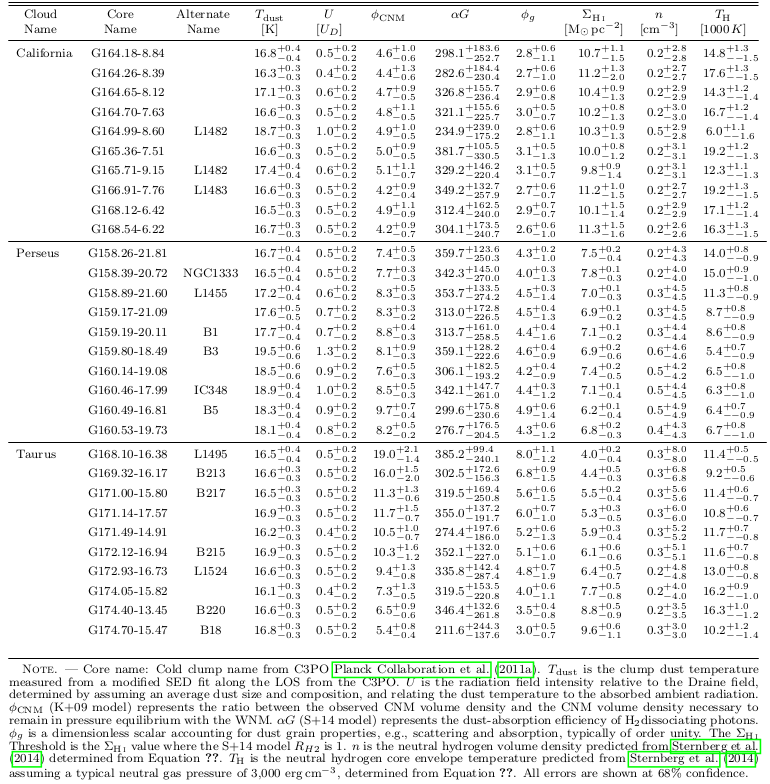
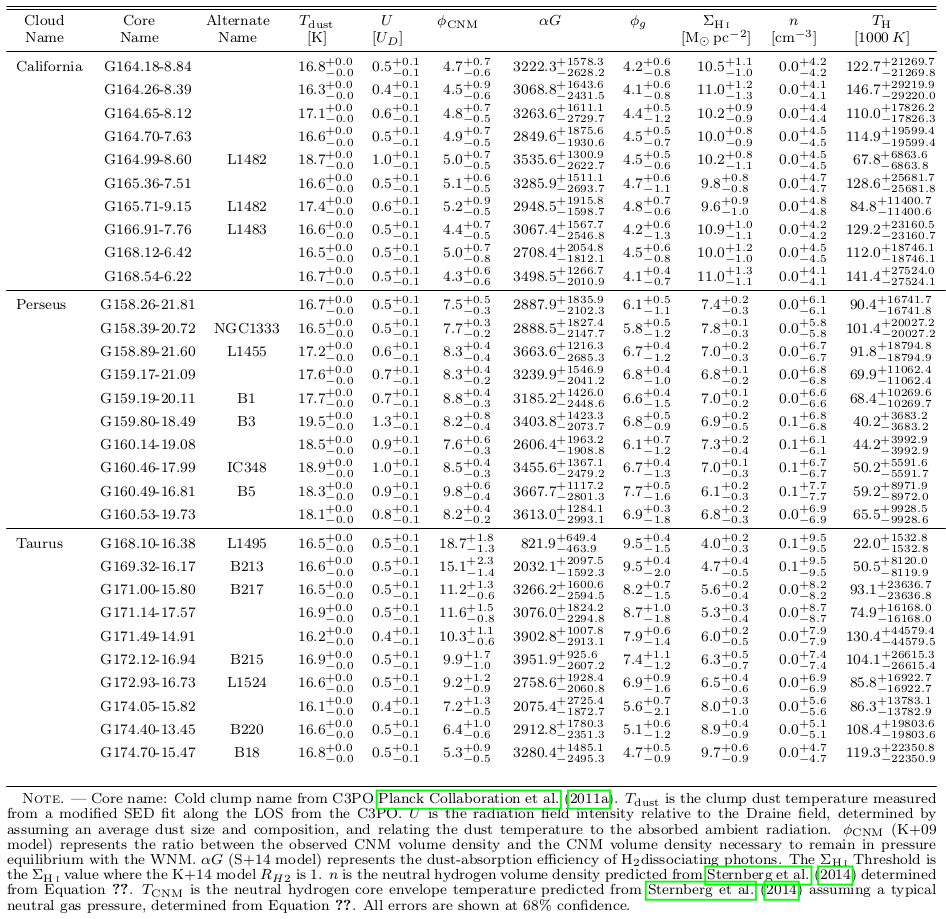
new post

Changed region(s): [[0.0, 0.0, 0.9974, 1.0]]

diff --git a/images/2015-10-18/image_copy.py b/images/2015-10-18/image_copy.py
@@ -1,0 +1,34 @@
+#!/usr/bin/python
+
+import os
+
+images = [
+
+'/d/bip3/ezbc/multicloud/figures/models/*rh2*.png',
+'/d/bip3/ezbc/scratch/*phi_g_cdf.png',
+'/d/bip3/ezbc/scratch/*alphaG_cdf.png',
+
+        ]
+
+'''
+# int, planck
+'/d/bip3/ezbc/perseus/figures/likelihood/perseus_planck_binned_coarseres_likelihood_w?.png',
+'/d/bip3/ezbc/taurus/figures/likelihood/taurus_planck_binned_coarseres_likelihood_w?.png',
+'/d/bip3/ezbc/california/figures/likelihood/california_planck_binned_coarseres_likelihood_w?.png',
+
+# no int, planck
+'/d/bip3/ezbc/perseus/figures/likelihood/perseus_planck_binned_coarseres_noint_likelihood_w?.png',
+'/d/bip3/ezbc/taurus/figures/likelihood/taurus_planck_binned_coarseres_noint_likelihood_w?.png',
+'/d/bip3/ezbc/california/figures/likelihood/california_planck_binned_coarseres_noint_likelihood_w?.png',
+
+
+'/d/bip3/ezbc/perseus/figures/likelihood/perseus_lee12_binned_coarseres_fixedwidth_likelihood_di.png',
+'/d/bip3/ezbc/perseus/figures/diagnostics/perseus_lee12_binned_coarseres_fixedwidth_av_vs_nhi*.png',
+'/d/bip3/ezbc/perseus/figures/diagnostics/perseus_lee12_binned_coarseres_fixedwidth_nh2_vs_nhi*png',
+'''
+
+dest_dir = './'
+
+for image in images:
+    os.system('cp ' + image + ' ' + dest_dir)
+

diff --git a/_posts/research/2015-10-18-model-analysis.md b/_posts/research/2015-10-18-model-analysis.md
@@ -17,24 +17,163 @@ use_math: true
 
 <hr style="height:2px; background-color:#b6b6b6"/>
 
-## Core Selection
+## Confirming Model Accuracy
 
+Figure 1 shows the $R_{H2}$ plots for each cloud. We can see the agreement
+between the model and data and that shown in Lee+12 or Bialy+15.
 
+*** 
 
+<div class="carouselContainer">
+  <div class="variable-width">
+    <div> <img src="/images/2015-10-18/california_rh2_vs_hsd.png"
+               style="height:700px"/> </div>
+    <div> <img src="/images/2015-10-18/perseus_rh2_vs_hsd.png"
+               style="height:700px"/> </div>
+    <div> <img src="/images/2015-10-18/taurus_rh2_vs_hsd.png"
+               style="height:700px"/> </div>
+  </div>
+</div>
+
+##### Figure 1
+
+$R_{H2}$ vs. H for different cores with fitted models.
+
+***
+
+## Model Application
+
+### Determining $I_{UV}$
+
+Given a dust temperature the ISRF heating dust grains (from *all directions*)
+can be actually easily calculated by
+
+$$\begin{equation}
+    U(M83) = (T_{dust} / 17.5 K)^6
+\end{equation}$$
+
+This relation is based on many observations showing that large interstellar
+silicates have an equilibrium temperature of 17.5 K in the solar neighborhood.
+Here U(M83) is the ISRF by Mathis+83 integrated from 0.09 micron to 8 micron.
+
+But what we need to know is I_UV, the scaling factor for the Draine field. For
+the FUV range of 6 ~ 13.6 eV, the Draine field is a factor of ~1.5 stronger
+than the Mathis field. Hence
+
+$$\begin{equation}
+    I_{UV} = (T_{dust} / 17.5 K)^6 * 1.5
+\end{equation}$$
+
+however I have not confirmed this last step myself. I will do so tomorrow.
+
+### Fitting: Holding $\phi_g$ constant
+
+The simplest approach for fitting the Sternberg+14 model would be to hold all
+variables constant and fit for $\alpha G$. Following the steps from Bialy+15,
+who considered varying dust properties in Perseus, I set $\phi_g$ to 2.
+Typically the galactic value of $\phi_g$ is of order unity, but Lee+12 found a
+DGR about two times higher than galactic, thus the dust properties may differ
+from galactic. The dust opacity (proportional to the DGR), which determines
+$\alpha G$, is proportional to the product of the grain abundance, $Z_g$,
+(metallicity) and $\phi_g$.
+
+$\phi_g$ and $Z_g$ are completely degenerate with each other in determining
+$\alpha G$, only their product changes $\alpha G$. However they affect the
+interpretation of the models differently. The gas volume density assuming
+pressure equilibrium is determined by
+
+$$
+    \begin{equation}
+        (n/100\,{\rm cm}^{-3}) = 1.54 \frac{I_{\rm UV}}{\alpha G}
+                        \frac{\phi_g}{1 + (2.64\phi_g Z^\prime)^{1/2}}
+    \end{equation}
+$$
+
+$$
+    \begin{equation}
+        n \propto \frac{\phi_g}{1 + \phi_g^{1/2}}
+    \end{equation}
+$$
+
+$$
+    \begin{equation}
+        n \propto \frac{1}{1 + Z_g^{1/2}}
+    \end{equation}
+$$
+
+hence determining $\phi_g$. Then assuming a standard galactic pressure of P/k =
+3,000 K / cm$^{-3}$ we can determine the gas temperature.
+
+In the end determining the $\phi_g$ and $Z_g$ parameters affects our
+interpretation of what phases the neutral gas is in. See Table 1 for a rough
+idea of the derived values for the model parameters, measured and predicted ISM
+properties. Unfortunately the errors on the number densities are huge, though
+perhaps not unrealistic.
 
 *** 
 
 <img
-src="/images/2015-10-14/multicloud_av_cores_map.png"
+src="/images/2015-10-18/table_phig_novary.png"
     style="width: 100%"/>
 
-##### Figure 1
-
-$A_V$  map overplotted with 10 highest N(H$_2$) core regions in each cloud.
+##### Table 1
 
 ***
 
-## Analysis
+#### Sanity check for model fitting
+
+Just to confirm that we are sampling a reasonable range of $\alpha G$, Figure 2
+shows the CDF of the fitted values for $\alpha G$. Indeed we see a most
+probable value within the center of the allowed range.
+
+*** 
+
+<img
+src="/images/2015-10-18/example_alphaG_constantphig.png"
+    style="width: 50%"/>
+
+##### Figure 2
+
+$\alpha G$ CDF for G171.49-14.91. There is an obvious most probable value,
+around 15. This would correspond to a large peak in the PDF.
+
+***
+
+### Fitting: Varying $phi_g$
+
+Next we could attempt to fit for $\phi_g$ and $\alpha G$ simultaneously.
+
+I fit for both $\alpha G$ and $phi_g$ in the S+14 model. I allowed $\alpha G$
+to go between 10$^{-2}$ to 5000 and $phi_g$ from 0.01 to 10. The limits of
+$phi_g$ seem beyond physical, given the solar dust composition has $phi_g$
+between 0.5 and 2.
+
+Unfortunately the errors on each parameter are gigantic, with $\alpha G$ values
+in the thousands and $\phi_g$ values between 5 and 10, which seems much too
+large, unless the dust abundance, $Z_g$, were much lower than solar.
+
+Below are the CDFs for the two parameters. We see that despite the large range
+available to $\alpha G$ the most probable value is on the edge of the range.
+
+*** 
+
+<img
+src="/images/2015-10-18/example_alphaG.png"
+    style="width: 50%; float: left"/>
+
+<img
+src="/images/2015-10-18/example_phi_g.png"
+    style="width: 50%; float: left"/>
+
+##### Figure 3
+
+$\alpha G$ and $\phi_g$ CDFs for G171.49-14.91. There is an obvious most
+probable value for $\phi_g$, around 8. However the $\alpha G$ CDF shows the
+most probable value is at the edge of the fitting boundary, suggesting we
+should use a larger boundary. A value of $\phi_g$ = 8 seems unphysical given
+that the solar neighborhood is within a factor of 2 from 1.
+
+***
 
 
 
